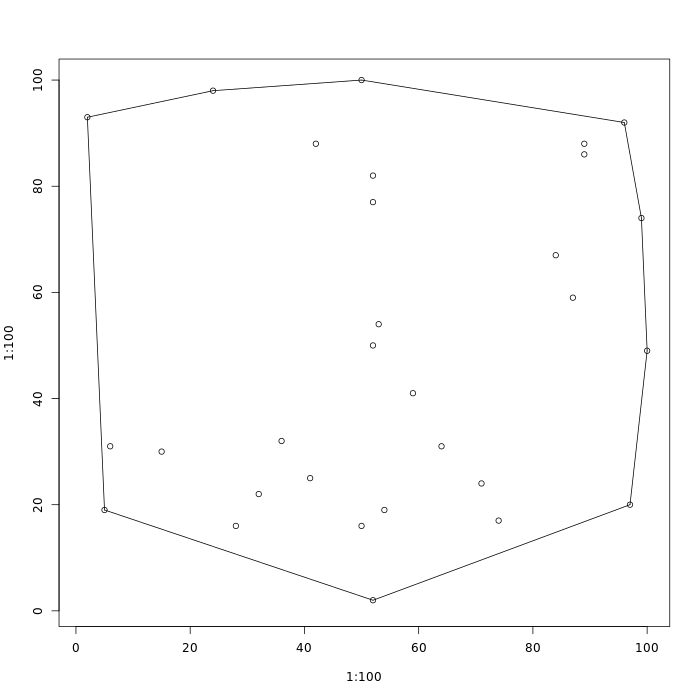
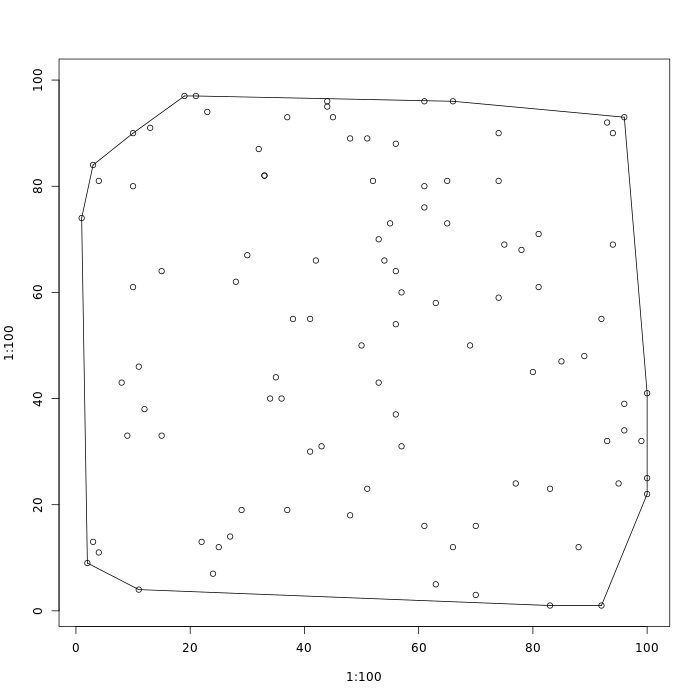
fix assignment 1
fix array index flow problem

diff --git a/assignment1/done/bruteforce_convex_hull.c b/assignment1/done/bruteforce_convex_hull.c
@@ -62,7 +62,7 @@ int main( int argc, char **argv)
 	}
 
 	point p[n];
-	line_segment l[n];
+	line_segment l[2 * n];
 
 	fprintf( stderr, "Create %d points\n", n);
 
@@ -92,7 +92,7 @@ int main( int argc, char **argv)
 
 void print_points( point *p, int n)
 {
-	printf("\n#points\n");
+	printf("\n# %d points\n", n);
 	for (int i = 0; i < n; i++)
 	{
 		printf("points(%d, %d)\n", p[i].x, p[i].y); 
@@ -105,50 +105,67 @@ void print_points( point *p, int n)
 // return value : number of line segments
 int convex_hull( point *p, int n, line_segment *l)
 {
-	int lineCount = 0;
-	for (int i = 0; i < n; i++) // first point
+	// remove duplicated point
+	int newCount = 0;
+	point* newP = (point*) malloc (sizeof (point) * n);
+	for (int i = 0; i < n; i++)
 	{
-		for (int j = i + 1; j < n; j++) // second point
+		int isDuplicated = 0;
+		for (int j = 0; j < newCount; j++)
+		{
+			if (newP[j].x == p[i].x && newP[j].y == p[i].y) isDuplicated = 1;
+		}
+		if (!isDuplicated) newP[newCount++] = p[i];
+	}
+
+	// convex hull main algorithm
+	int lineCount = 0;
+	for (int i = 0; i < newCount; i++) // first point
+	{
+		for (int j = i + 1; j < newCount; j++) // second point
 		{
 			// ax + by = c
-			float a = p[j].y - p[i].y;
-			float b = p[i].x - p[j].x;
-			float c = p[i].x * p[j].y - p[i].y * p[j].x;
+			int a = newP[j].y - newP[i].y;
+			int b = newP[i].x - newP[j].x;
+			int c = newP[i].x * newP[j].y - newP[i].y * newP[j].x;
 
 			int checker = 0;
 			int isLine = 1;
 
-			for (int idx = 0; idx < n; idx++) // check for every point
+			for (int k = 0; k < newCount; k++) // check for every point
 			{
-				float where = a * p[idx].x + b * p[idx].y - c;
+				if (k == i || k == j) continue;
+				int where = a * newP[k].x + b * newP[k].y - c;
 				if (checker == 0)
 				{
 					checker = where;
 				}
-				else 
+				else if (checker * where < 0)
 				{
-					if (checker * where < 0)
-					{
-						isLine = 0;
-						break;
-					}
+					isLine = 0;
+					break;
+				}
+				if (where == 0 && ((newP[i].x - newP[k].x) * (newP[j].x - newP[k].x) < 0 || (newP[i].y - newP[k].y) * (newP[j].y - newP[k].y) < 0))
+				{ // remove overlaped line
+					isLine = 0;
+					break;
 				}
 			}
 
 			if (isLine)
 			{
-				l[lineCount].from = p[i];
-				l[lineCount++].to = p[j];
+				l[lineCount].from = newP[i];
+				l[lineCount++].to = newP[j];
 			}
 		}
 	}
 
-	return lineCount + 1;
+	return lineCount;
 }
 
 void print_line_segments( line_segment *l, int num_line)
 {
-	printf("\n#line segments\n");
+	printf("\n# %d line segments\n", num_line);
 	for (int i = 0; i < num_line; i++)
 	{
 		printf("segments(%d, %d, %d, %d)\n", l[i].from.x, l[i].from.y, l[i].to.x, l[i].to.y); 
